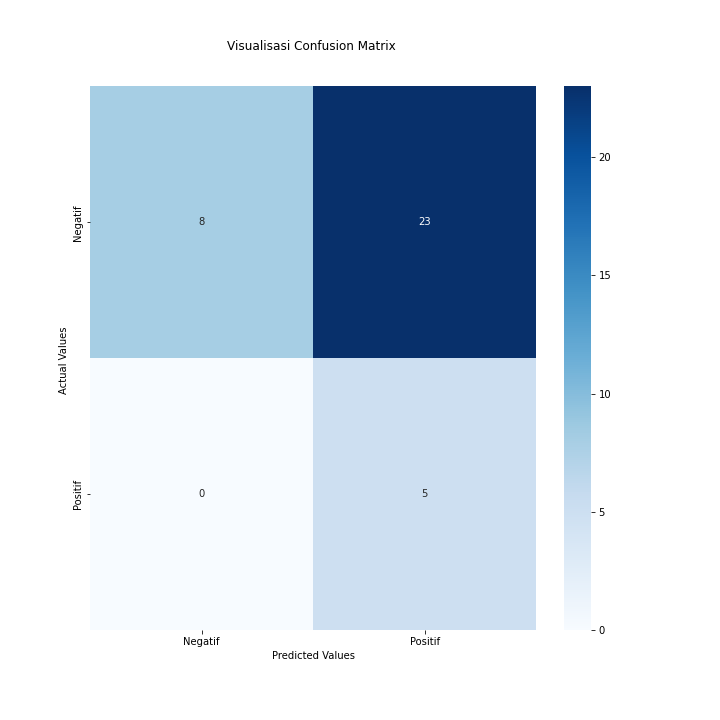
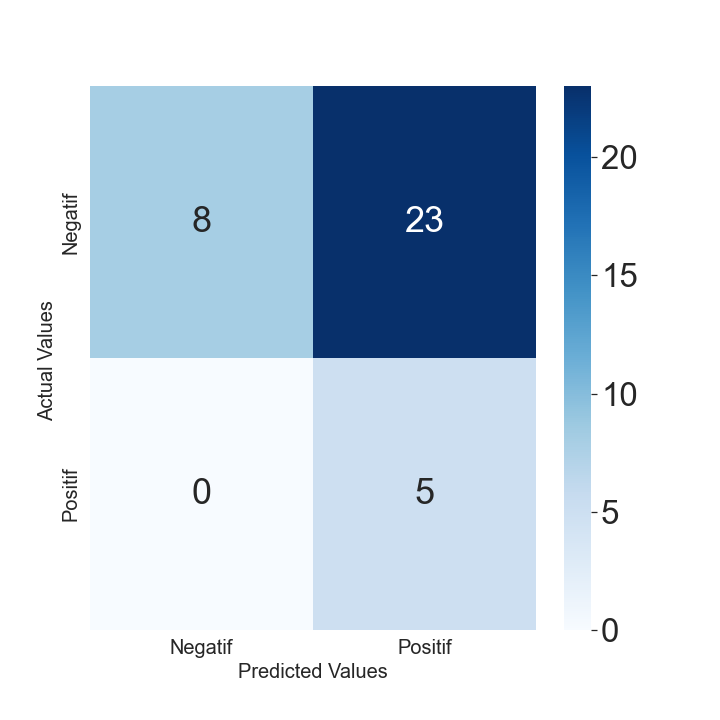
Add CFM

diff --git a/resources/views/master.blade.php b/resources/views/master.blade.php
@@ -213,7 +213,7 @@
                     <div class="bg-white py-2 collapse-inner rounded">
                         <h6 class="collapse-header">Jenis Visualisasi:</h6>
                         <a class="collapse-item" href="{{ route('chart_ketam') }}">Diagram Lingkaran</a>
-                        <a class="collapse-item" href="#">Confusion Matrix</a>
+                        <a class="collapse-item" href="{{ route('cfm_ketam') }}">Confusion Matrix</a>
                         <a class="collapse-item" href="cards.html">Word Cloud</a>
                     </div>
                 </div>
@@ -230,7 +230,7 @@
                     <div class="bg-white py-2 collapse-inner rounded">
                         <h6 class="collapse-header">Jenis Visualisasi:</h6>
                         <a class="collapse-item" href="{{ route('chart_getas') }}">Diagram Lingkaran</a>
-                        <a class="collapse-item" href="cards.html">Confusion Matrix</a>
+                        <a class="collapse-item" href="{{ route('cfm_getas') }}">Confusion Matrix</a>
                         <a class="collapse-item" href="cards.html">Word Cloud</a>
                     </div>
                 </div>
@@ -247,7 +247,7 @@
                     <div class="bg-white py-2 collapse-inner rounded">
                         <h6 class="collapse-header">Jenis Visualisasi:</h6>
                         <a class="collapse-item" href="{{ route('chart_kricu') }}">Diagram Lingkaran</a>
-                        <a class="collapse-item" href="cards.html">Confusion Matrix</a>
+                        <a class="collapse-item" href="{{ route('cfm_kricu')}}">Confusion Matrix</a>
                         <a class="collapse-item" href="cards.html">Word Cloud</a>
                     </div>
                 </div>
@@ -263,7 +263,7 @@
                     <div class="bg-white py-2 collapse-inner rounded">
                         <h6 class="collapse-header">Jenis Visualisasi:</h6>
                         <a class="collapse-item" href="{{ route('chart_otak2') }}">Diagram Lingkaran</a>
-                        <a class="collapse-item" href="cards.html">Confusion Matrix</a>
+                        <a class="collapse-item" href="{{ route('cfm_otak2')}}">Confusion Matrix</a>
                         <a class="collapse-item" href="cards.html">Word Cloud</a>
                     </div>
                 </div>

diff --git a/routes/web.php b/routes/web.php
@@ -70,3 +70,9 @@ Route::get('/chart_ketam', function () { return view('chart.ketam'); })->name('c
 Route::get('/chart_getas', function () { return view('chart.getas'); })->name('chart_getas');
 Route::get('/chart_kricu', function () { return view('chart.kricu'); })->name('chart_kricu');
 Route::get('/chart_otak2', function () { return view('chart.otak2'); })->name('chart_otak2');
+
+// CFM
+Route::get('/cfm_ketam', function () { return view('cfm.ketam'); })->name('cfm_ketam');
+Route::get('/cfm_getas', function () { return view('cfm.getas'); })->name('cfm_getas');
+Route::get('/cfm_kricu', function () { return view('cfm.kricu'); })->name('cfm_kricu');
+Route::get('/cfm_otak2', function () { return view('cfm.otak2'); })->name('cfm_otak2');

diff --git a/resources/views/cfm/otak2.blade.php b/resources/views/cfm/otak2.blade.php
@@ -1,0 +1,19 @@
+@extends('master')
+@section('content')
+<br>
+<h1 style="text-align: center;">Visualisasi Confusion Matrix Data Produk Otak-otak</h1>
+<br>
+<br>
+<br>
+    <div class="col" style="text-align: center;">
+        <div class="row-6">
+            
+            <img src = "{{ asset('asset_otak2/CFM.png')}}" class="img-fluid" height="500px" width="500px">
+        </div>
+        <div class="row-6">
+
+            <h4>Visualisasi Confusion Matrix Sentimen Pada Produk Otak-otak Dengan Metode Klasifikasi Naive Bayes</h4>
+        </div>
+    </div>
+
+@endsection

diff --git a/resources/views/cfm/getas.blade.php b/resources/views/cfm/getas.blade.php
@@ -1,0 +1,19 @@
+@extends('master')
+@section('content')
+<br>
+<h1 style="text-align: center;">Visualisasi Confusion Matrix Data Produk Getas</h1>
+<br>
+<br>
+<br>
+    <div class="col" style="text-align: center;">
+        <div class="row-6">
+            
+            <img src = "{{ asset('asset_getas/CFM.png')}}" class="img-fluid" height="500px" width="500px">
+        </div>
+        <div class="row-6">
+
+            <h4>Visualisasi Confusion Matrix Sentimen Pada Produk Getas Dengan Metode Klasifikasi Naive Bayes</h4>
+        </div>
+    </div>
+
+@endsection

diff --git a/resources/views/cfm/ketam.blade.php b/resources/views/cfm/ketam.blade.php
@@ -1,0 +1,19 @@
+@extends('master')
+@section('content')
+<br>
+<h1 style="text-align: center;">Visualisasi Confusion Matrix Data Produk Ketam</h1>
+<br>
+<br>
+<br>
+    <div class="col" style="text-align: center;">
+        <div class="row-6">
+            
+            <img src = "{{ asset('asset_ketam/CFM.png')}}" class="img-fluid" height="500px" width="500px">
+        </div>
+        <div class="row-6">
+
+            <h4>Visualisasi Confusion Matrix Sentimen Pada Produk Ketam Dengan Metode Klasifikasi Naive Bayes</h4>
+        </div>
+    </div>
+
+@endsection

diff --git a/resources/views/cfm/kricu.blade.php b/resources/views/cfm/kricu.blade.php
@@ -1,0 +1,19 @@
+@extends('master')
+@section('content')
+<br>
+<h1 style="text-align: center;">Visualisasi Confusion Matrix Data Produk Kricu</h1>
+<br>
+<br>
+<br>
+    <div class="col" style="text-align: center;">
+        <div class="row-6">
+            
+            <img src = "{{ asset('asset_kricu/CFM.png')}}" class="img-fluid" height="500px" width="500px">
+        </div>
+        <div class="row-6">
+
+            <h4>Visualisasi Confusion Matrix Sentimen Pada Produk Kricu Dengan Metode Klasifikasi Naive Bayes</h4>
+        </div>
+    </div>
+
+@endsection
